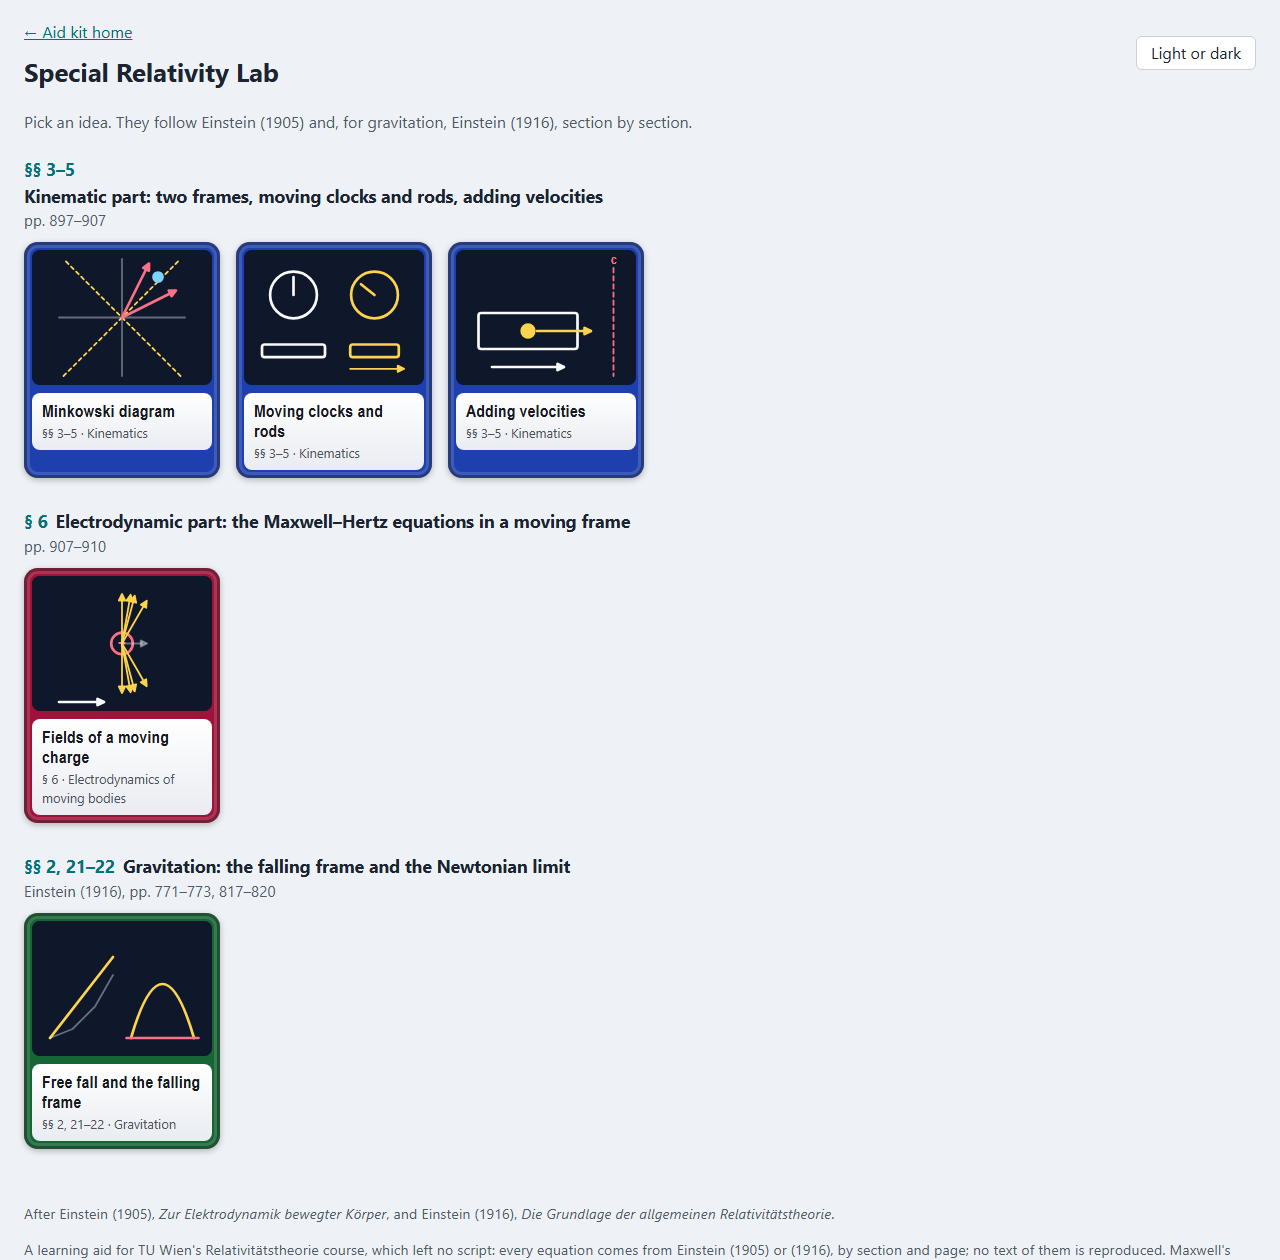
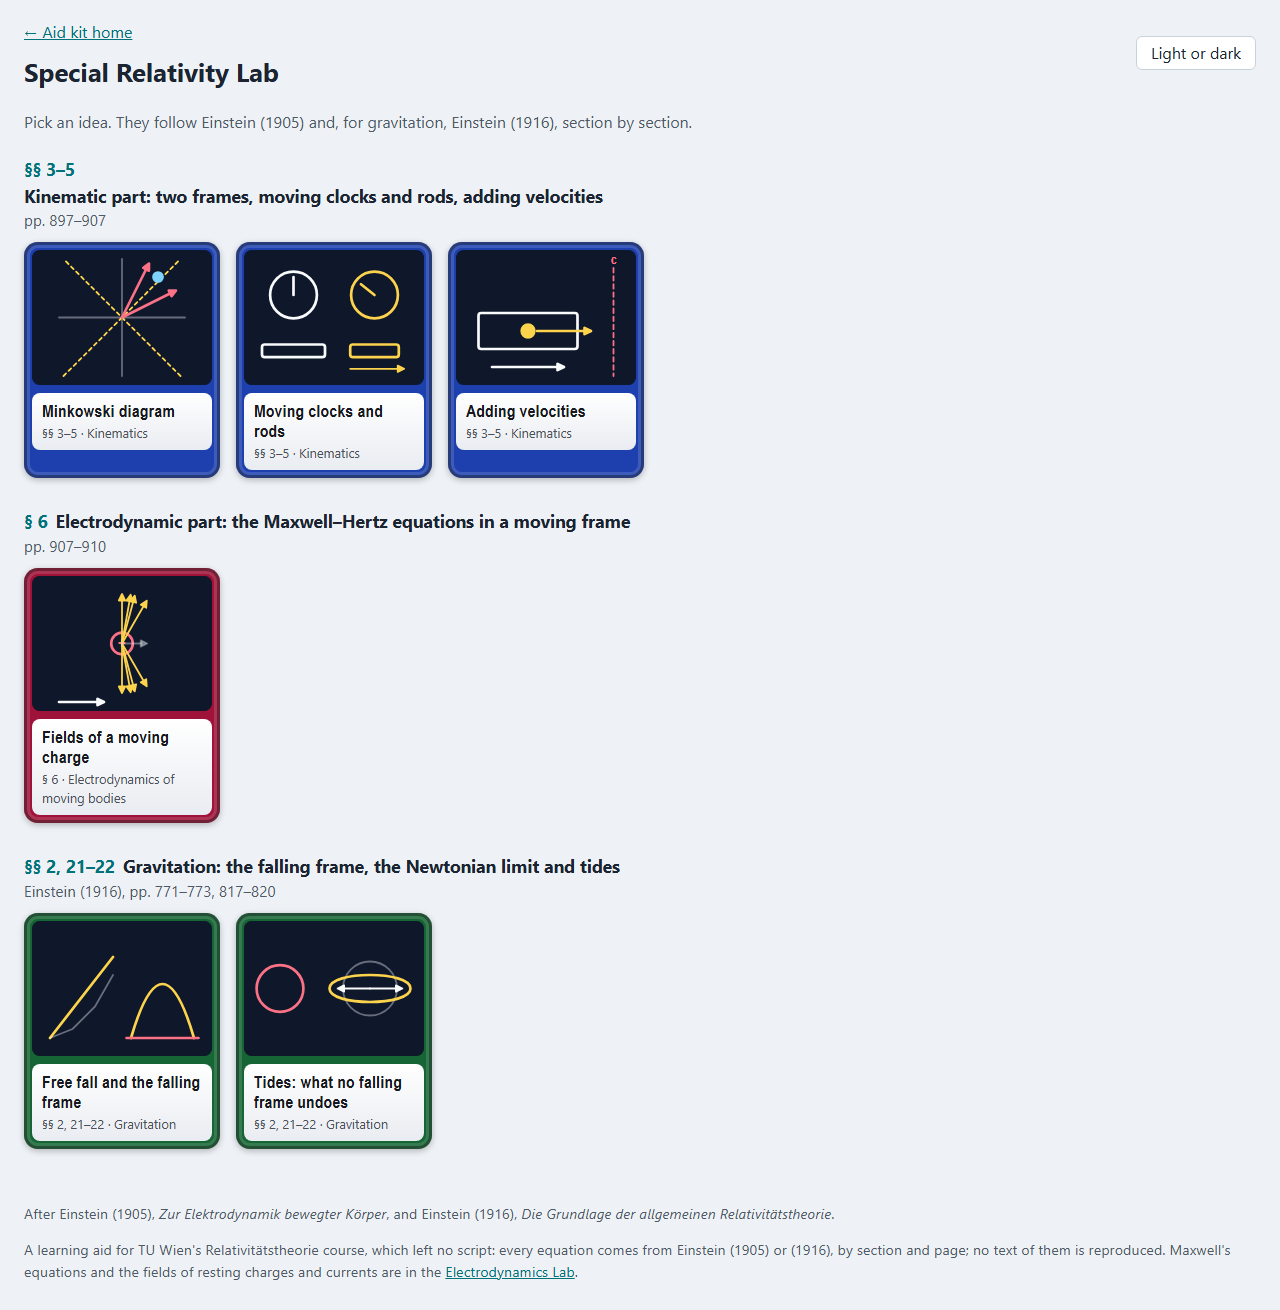
Relativity: add the tides lab after Einstein (1916)
A ring of balls let go around a falling centre stretches along the
radius and squeezes across it: the part of gravity no falling frame
undoes. Potential from eqs. (67)-(69), pp. 817-818, with K as printed
there; (70a) is not used, as by (68) its alpha comes out twice the
printed value. Tested against the first-order tidal form and the
falling ring at small times.

Changed region(s): [[0.0, 0.0, 0.9688, 1.0], [0.9062, 0.031, 0.9688, 0.0619]]

diff --git a/relativity-lab/src/labs/tides.js b/relativity-lab/src/labs/tides.js
@@ -1,0 +1,59 @@
+// Tides, after the Newtonian limit of Einstein (1916) pp. 817–818: a ring of balls let go around a falling centre.
+// Riding with the centre removes the field there, but not its change across the ring: the ring stretches along the
+// radius and squeezes across it. This is what no falling frame undoes, the curvature the free-fall lab leaves out.
+import { fallingRing, tidalLinear } from "../core/index.js";
+import { h, s, slider, readout } from "../../../kit/ui/kit.js";
+import * as a from "../../../kit/ui/art.js";
+
+const W = 460, H = 330, CX = 300, CY = 165, RING = 70, N = 24;
+
+export default {
+  id: "tides",
+  art: () => a.picture("A ring of balls falling towards a planet, stretched into an egg along the line to the planet",
+    a.circle(40, 75, 26, a.HOT, 3) + a.circle(140, 75, 30, a.DIM, 2, "none") +
+      a.path("M95 75 C95 55 185 55 185 75 C185 95 95 95 95 75", a.ACC, 3) + a.arrow(140, 75, 104, 75, a.INK, 2) + a.arrow(140, 75, 176, 75, a.INK, 2)),
+  mount(root) {
+    let M = 6e24, R0 = 7000e3, t = 0, playing = false;
+    const pic = s("svg", { viewBox: `0 0 ${W} ${H}`, class: "schematic", role: "img",
+      "aria-label": "A ring of balls seen from its falling centre: the dashed circle where they started, the ring now, and the planet off to the left" });
+    const rS = readout("Along the radius"), rQ = readout("Across the radius"), rT = readout("Stretching per metre, 2KM/R³");
+    const update = () => {
+      const d = 1000, { reference, offsets } = fallingRing(M, R0, d, N, t);
+      const R = Math.hypot(...reference), sc = RING / d;
+      const along = (offsets[0][0] - offsets[N / 2][0]) / (2 * d), across = (offsets[N / 4][1] - offsets[3 * N / 4][1]) / (2 * d);
+      const ring = offsets.map(([x, y]) => `${(CX + x * sc).toFixed(1)},${(CY - y * sc).toFixed(1)}`);
+      pic.replaceChildren(
+        s("circle", { cx: 50, cy: CY, r: 26, class: "charge" }),
+        s("text", { x: 8, y: CY + 48, class: "tick" }, `planet, ${(R / 1e3).toFixed(0)} km away`),
+        s("line", { x1: 70, y1: CY, x2: W - 10, y2: CY, class: "grid" }),
+        s("circle", { cx: CX, cy: CY, r: RING, fill: "none", class: "light" }),
+        s("path", { d: `M${ring.join(" L")} Z`, fill: "none", class: "axis moving" }),
+        ...offsets.map(([x, y]) => s("circle", { cx: CX + x * sc, cy: CY - y * sc, r: 4, class: "probe" })),
+        s("circle", { cx: CX, cy: CY, r: 3, class: "probe" }),
+        s("text", { x: W - 8, y: 18, class: "tick", "text-anchor": "end" }, `seen from the falling centre, t = ${t.toFixed(0)} s`),
+        s("text", { x: W - 8, y: H - 8, class: "tick", "text-anchor": "end" }, "dashed: the ring when let go"));
+      rS.set(`+${(along * 100 - 100).toFixed(1)} %`, "", "stretched: the near side falls faster");
+      rQ.set(`${(across * 100 - 100).toFixed(1)} %`, "", "squeezed: all fall towards one centre");
+      rT.set(`${(tidalLinear(M, R0, [1, 0])[0] * 1e6).toFixed(3)} µm/s² per m`, "", "at the start; across: half, inward");
+    };
+    const T_MAX = 800;
+    const st = slider({ label: "Time falling t", unit: "s", min: 0, max: T_MAX, value: t, step: 10, format: x => `${x} s`, onInput: x => { t = x; update(); } });
+    const play = h("button", { type: "button" }, "Play");
+    play.addEventListener("click", () => {
+      playing = !playing; play.textContent = playing ? "Pause" : "Play";
+      let last = null;
+      const step = now => {
+        if (!playing || !pic.isConnected) { playing = false; play.textContent = "Play"; return; }
+        if (last !== null) t = (t + (now - last) / 1000 * 160) % T_MAX;
+        last = now; st.set(Math.round(t / 10) * 10); update(); requestAnimationFrame(step);
+      };
+      if (playing) requestAnimationFrame(step);
+    });
+    root.append(h("div", { class: "stage" }, pic, h("div", { class: "controls" }, st, play,
+      slider({ label: "Mass M", unit: "kg", min: 1e24, max: 1e25, value: M, step: 1e23, format: x => `${(x / 1e24).toFixed(1)} × 10²⁴ kg`, onInput: x => { M = x; update(); } }),
+      slider({ label: "Starting distance R0", unit: "km", min: 6500, max: 20000, value: R0 / 1e3, step: 100, format: x => `${x} km`, onInput: x => { R0 = x * 1e3; update(); } }),
+      rS.el, rQ.el, rT.el,
+      h("p", { class: "hint" }, "The centre feels no field: it falls with the ring. Yet the ring turns into an egg pointing at the planet, because the field differs from ball to ball. A uniform field (the free-fall lab) has no such change, so one falling frame undoes it; a real mass cannot be undone everywhere at once. The ring is drawn 1 km across; the change grows as 1/R³."))));
+    update();
+  },
+};

diff --git a/relativity-lab/src/core/gravity.js b/relativity-lab/src/core/gravity.js
@@ -29,3 +29,40 @@ export const g44Acceleration = (x, g, h = 1) => -0.5 * C0 * C0 * (g44Excess(x + 
  *  equation (72), p. 820, dx4 = 1/√g44 per tick ("Die Uhr läuft also langsamer, wenn sie in der Nähe ponderabler
  *  Massen aufgestellt ist"). About g h/c0²; worked without cancellation for heights of metres. */
 export const clockGain = (h, g) => Math.expm1(0.5 * Math.log1p(2 * g * h / (C0 * C0)));
+
+/** Newton's gravitational constant as Einstein quotes it on p. 818: K = 6,7 · 10⁻⁸ in cgs, here in SI (m³/(kg s²)). */
+export const K_GRAV = 6.7e-11;
+
+/** Acceleration at (x, y) m of a point mass M kg at the origin: −grad of the potential −K M/r, which (67), (68a) and
+ *  (69), pp. 817–818, give in the Newtonian limit. Einstein's (70a) is not used: by (68) its α comes out twice his
+ *  printed κM/8π, so the potential is taken from (68a) directly. */
+export function pointMassAcceleration(M, [x, y]) {
+  const r = Math.hypot(x, y), k = -K_GRAV * M / (r * r * r);
+  return [k * x, k * y];
+}
+
+/** Acceleration of a point at offset d = [radial, across] from a falling reference at distance R from the mass,
+ *  relative to that reference: the part no falling frame removes (exact difference). */
+export function tidalAcceleration(M, R, [dx, dy]) {
+  const a = pointMassAcceleration(M, [R + dx, dy]), a0 = pointMassAcceleration(M, [R, 0]);
+  return [a[0] - a0[0], a[1] - a0[1]];
+}
+
+/** Its first-order form for small d: stretch 2KM/R³ along the radius, squeeze KM/R³ across (derived). */
+export const tidalLinear = (M, R, [dx, dy]) => [2 * K_GRAV * M * dx / R ** 3, -K_GRAV * M * dy / R ** 3];
+
+/** A ring of n points of radius d around a reference at distance R0, all let go from rest, after time t: their
+ *  offsets from the reference, which falls with them. Velocity Verlet in steps of t/steps; deterministic. */
+export function fallingRing(M, R0, d, n, t, steps = 400) {
+  const pts = Array.from({ length: n }, (_, i) => { const a = 2 * Math.PI * i / n; return [R0 + d * Math.cos(a), d * Math.sin(a)]; });
+  const bodies = [[R0, 0], ...pts].map(p => ({ p, v: [0, 0], a: pointMassAcceleration(M, p) }));
+  const dt = t / steps;
+  for (let k = 0; k < steps; k++) for (const b of bodies) {
+    b.p = [b.p[0] + b.v[0] * dt + b.a[0] * dt * dt / 2, b.p[1] + b.v[1] * dt + b.a[1] * dt * dt / 2];
+    const a = pointMassAcceleration(M, b.p);
+    b.v = [b.v[0] + (b.a[0] + a[0]) * dt / 2, b.v[1] + (b.a[1] + a[1]) * dt / 2];
+    b.a = a;
+  }
+  const [ref, ...ring] = bodies;
+  return { reference: ref.p, offsets: ring.map(b => [b.p[0] - ref.p[0], b.p[1] - ref.p[1]]) };
+}

diff --git a/relativity-lab/tests/unit/tides.test.js b/relativity-lab/tests/unit/tides.test.js
@@ -1,0 +1,47 @@
+// Tides from the Newtonian limit of Einstein (1916), each against a second route: the exact difference of the field
+// against its first-order form, the falling ring against that form at small times, and hand-checked numbers.
+import { test } from "node:test";
+import assert from "node:assert/strict";
+import * as F from "../../src/core/index.js";
+
+const near = (a, b, rel = 1e-9, abs = 0) => assert.ok(Math.abs(a - b) <= rel * Math.abs(b) + abs, `${a} is not ${b}`);
+const M = 6e24, R = 7e6;
+
+test("K = 6.7 × 10⁻⁸ cgs on p. 818 is 6.7 × 10⁻¹¹ in SI (by definition: cm³/(g s²) = 10⁻³ m³/(kg s²))", () => {
+  near(F.K_GRAV, 6.7e-8 * 1e-6 / 1e-3);
+});
+
+test("a point mass pulls towards itself with K M/r² (by definition of −grad of −K M/r)", () => {
+  const [ax, ay] = F.pointMassAcceleration(M, [R, 0]);
+  near(ax, -F.K_GRAV * M / R ** 2);
+  assert.equal(ay, -0);
+});
+
+test("10 m along the radius at 7000 km from 6 × 10²⁴ kg: 2.344 × 10⁻⁵ m/s² (hand-checked)", () => {
+  near(F.tidalAcceleration(M, R, [10, 0])[0], 2.344e-5, 1e-3);
+  near(F.tidalAcceleration(M, R, [0, 10])[1], -1.172e-5, 1e-3);
+});
+
+// abs 1e-12: the difference of two ~8 m/s² accelerations leaves ~1e-13 of rounding where the true value is 0.
+test("the exact difference matches the first-order form 2KM d/R³ and −KM d/R³ for small d (second route)", () => {
+  for (const d of [[1, 0], [0, 1], [3, 4]]) {
+    const ex = F.tidalAcceleration(M, R, d), lin = F.tidalLinear(M, R, d);
+    near(ex[0], lin[0], 1e-5, 1e-12);
+    near(ex[1], lin[1], 1e-5, 1e-12);
+  }
+});
+
+test("the falling ring stretches along the radius and squeezes across it, early on as ½ Δa t² (second route)", () => {
+  const d = 1000, t = 60, n = 8, { offsets } = F.fallingRing(M, R, d, n, t, 600);
+  const k = F.K_GRAV * M / R ** 3;
+  near(offsets[0][0] - d, 0.5 * 2 * k * d * t * t, 0.02);
+  near(offsets[2][1] - d, -0.5 * k * d * t * t, 0.02);
+  const late = F.fallingRing(M, R, d, n, 600).offsets;
+  assert.ok(late[0][0] > d && late[2][1] < d, "stretched along, squeezed across");
+});
+
+test("the ring is let go as a circle and the same input gives the same ring (deterministic)", () => {
+  const a = F.fallingRing(M, R, 1000, 12, 0), b = F.fallingRing(M, R, 1000, 12, 300), c = F.fallingRing(M, R, 1000, 12, 300);
+  for (const [x, y] of a.offsets) near(Math.hypot(x, y), 1000, 1e-9);
+  assert.deepEqual(b, c);
+});

diff --git a/relativity-lab/src/core/index.js b/relativity-lab/src/core/index.js
@@ -1,5 +1,5 @@
 // The core's front door: the laws, the units and the practice checker. Pure: no page, no clock, no randomness.
 export { C0, MU0, EPS0, lorentzFactor, boost, interval, clockTime, rodLength, addVelocities, boostFields, movingCharge } from "./relativity.js";
-export { groundHeight, thrownHeight, apexHeight, flightTime, g44, g44Acceleration, clockGain } from "./gravity.js";
+export { groundHeight, thrownHeight, apexHeight, flightTime, g44, g44Acceleration, clockGain, K_GRAV, pointMassAcceleration, tidalAcceleration, tidalLinear, fallingRing } from "./gravity.js";
 export { si, parseSi, isRight } from "../../../kit/core/index.js";
 export { solve } from "./practice.js";

diff --git a/relativity-lab/src/core/practice.js b/relativity-lab/src/core/practice.js
@@ -13,6 +13,10 @@ const LAWS = {
   apexHeight: q => G.apexHeight(q.v, q.g),
   // Seconds a clock h metres up gains over one on the ground while t seconds pass.
   clockGainTime: q => G.clockGain(q.h, q.g) * q.t,
+  // Relative acceleration (m/s²) of two balls d metres apart along the radius, R metres from a mass M kg.
+  tidalStretch: q => G.tidalAcceleration(q.M, q.R, [q.d, 0])[0],
+  // The same, d metres apart across the radius: towards each other, so the magnitude.
+  tidalSqueeze: q => -G.tidalAcceleration(q.M, q.R, [0, q.d])[1],
 };
 
 /** The answer to a question's "compute" block; an unknown law is an error naming the ones there are. */

diff --git a/relativity-lab/src/labs/index.js b/relativity-lab/src/labs/index.js
@@ -5,5 +5,6 @@ import dilation from "./dilation.js";
 import velocity from "./velocity.js";
 import movingcharge from "./movingcharge.js";
 import freefall from "./freefall.js";
+import tides from "./tides.js";
 
-export const labs = [minkowski, dilation, velocity, movingcharge, freefall];
+export const labs = [minkowski, dilation, velocity, movingcharge, freefall, tides];

diff --git a/relativity-lab/README.md b/relativity-lab/README.md
@@ -1,7 +1,7 @@
 # Special Relativity Lab
 
-Five ideas of relativity to play with in the browser: frames, clocks, rods and fields seen from two frames at once,
-after Einstein (1905), *Zur Elektrodynamik bewegter Körper*, and free fall seen from a falling frame, after Einstein
+Six ideas of relativity to play with in the browser: frames, clocks, rods and fields seen from two frames at once,
+after Einstein (1905), *Zur Elektrodynamik bewegter Körper*, and free fall and tides seen from a falling frame, after Einstein
 (1916), *Die Grundlage der allgemeinen Relativitätstheorie*, for TU Wien's Relativitätstheorie course.
 
 <picture>
@@ -15,13 +15,13 @@ after Einstein (1905), *Zur Elektrodynamik bewegter Körper*, and free fall seen
 |---|---|
 | Einstein (1905) §§ 3–5 Kinematic part | Minkowski diagram (simultaneity and the interval), moving clocks and rods, adding velocities |
 | Einstein (1905) § 6 Electrodynamic part | the fields of a moving charge: E and B mixing under a boost |
-| Einstein (1916) §§ 2, 21–22 Gravitation | free fall: a thrown ball goes straight in the falling frame and bends into an arch on the ground; only g44, the rate of clocks, enters |
+| Einstein (1916) §§ 2, 21–22 Gravitation | free fall: a thrown ball goes straight in the falling frame and bends into an arch on the ground; only g44, the rate of clocks, enters; tides: a falling ring of balls stretches towards the mass, what no falling frame undoes |
 
 Each lab has a drawing to move, readouts worked by the core, a table of the equations behind it with their page in
 Einstein (1905) or (1916), and a practice question worked by hand. Maxwell's equations and the fields of resting charges are in
 the [Electrodynamics Lab](../Electromagnetism/).
 
-<img src="docs/light.png" alt="The overview in the light theme: Einstein's kinematic part with three lab cards, the electrodynamic part with one and gravitation with the free-fall lab" width="640">
+<img src="docs/light.png" alt="The overview in the light theme: Einstein's kinematic part with three lab cards, the electrodynamic part with one and gravitation with the free-fall and tides labs" width="640">
 <img src="docs/dark.png" alt="The moving charge lab in the dark theme: arrows of the electric field squeezed across the path, colour for the magnetic field above and below, and the readouts showing the factor γ" width="640">
 
 ## Open it
@@ -50,8 +50,8 @@ Plain JavaScript modules, no build step. Layers and their tests: [ARCHITECTURE.m
 ## Limits
 
 - A learning aid in one dimension of motion: every boost is along x.
-- Gravitation only in the Newtonian limit of a uniform field (Einstein 1916, § 21): no tides, no orbits, no field
-  equations.
+- Gravitation only in the Newtonian limit (Einstein 1916, § 21): a uniform field and the tides of a point mass, in a
+  plane; no orbits, no light bending, no field equations beyond their Newtonian form.
 - The course left no script and no exercises: every equation is from Einstein (1905) or (1916), checked against the
   scanned originals, and the practice answers are worked by hand.
 - Einstein's field equations use Gaussian units; the SI form shown beside them is derived and marked so.

diff --git a/relativity-lab/AUDIT.md b/relativity-lab/AUDIT.md
@@ -20,6 +20,7 @@ Before, the equations mixed Einstein's V with the modern γ.
 | Adding velocities | p. 905: x(t), y(t) of a point in k, "parallelogram … only to a first approximation"; p. 906: U for angle α, U along x, U < V, U = V for light | **Readout**: the note "light stays at c0 in every frame" appeared whenever \|U\| ≥ 0.9999 c0, so 0.99 c0 ⊕ 0.99 c0 = 0.99995 c0 (no light involved) was labelled light. Now the note follows the body's speed: only \|w\| = c0. Test: `lightNote`, and checked in the page. | — |
 | Fields of a moving charge | p. 909: X' … N' with factor v/V; p. 910: the sentence on the forces' dependence on the frame; Prechtl (2010) (2.43), p. 38, and (3.13), p. 61 | (1) **Source misnamed**: the core and labs.json called Prechtl's (3.13) Coulomb's field. It is the point-charge potential; the field is its negative gradient. Wording corrected; a test checks the core's field against −grad of (3.13). (2) **Practice solution**: said γvB and Prechtl's v × B agree "to 6 digits". They differ by 5.6 parts per million, so 1.00001 against 1.00000 × 10⁶ V/m at 6 digits. Now "to 5 digits". (3) The SI rows said "with B = N/c". The precise mapping is Gaussian B ↔ c0 B (SI), with a unit factor common to E and B that cancels; note reworded. | Einstein does not name his unit system. "Gaussian" is read from p. 909 (a unit charge exerts 1 dyn at 1 cm) and the 1/V in the field equations of p. 907. The moving-charge field is derived, not printed in either source; it is tested against Gauss's law. That test cites Prechtl (2010) Tab. 2.1, row 4, which this audit did not reread. |
 | Free fall and the falling frame (added 8 Nov 2026) | Einstein (1916), scan from Zenodo record 1424302: pp. 772–773, the frame K' accelerated against K, equivalent to a field; p. 817, eq. (67), d²x/dt² = −½ ∂g44/∂x, "nur die Komponente g44 … bestimmt"; p. 820, eq. (72), the clock slower near masses | New lab, nothing to correct. Tests in `tests/unit/gravity.test.js`; the first run failed because g44 − 1 vanished in rounding next to the 1, now kept apart in the core. | The shift x = x_fall − g t²/2 and g44 = 1 + 2gx/c0² for a uniform field are derived, not printed. Einstein's geodesic equation (46) and §§ 4–20 were not read. |
+| Tides (added 10 Nov 2026) | Einstein (1916) p. 817, eq. (67); p. 818, eqs. (68), (68a), (69) with K = 6,7 · 10⁻⁸ (cgs), read on the scan | New lab, nothing to correct. The first test run failed on a tolerance of 10⁻²⁰ where rounding leaves 10⁻¹³; set to 10⁻¹². **Not used**: (70a), p. 819, prints α = κM/8π, but solving (68) for a point mass gives α = κM/4π by my derivation; the potential is taken from (68a) instead. | The factor in (70a) is my own reading, not checked against the Collected Papers' editorial notes. The tidal forms 2KM d/R³ and −KM d/R³ are derived, not printed. |
 
 ## Limits
 

diff --git a/relativity-lab/ARCHITECTURE.md b/relativity-lab/ARCHITECTURE.md
@@ -19,8 +19,8 @@ lab's own `style.css` is linked after `../kit/style.css` and adds only its famil
 | app | `src/app.js` | kit-core, core, kit, labs | the page, `index.html` |
 
 The core is pure: no DOM, network, clock or randomness (`forbid` in `architecture.json`). `relativity.js` holds the
-Lorentz transformation, its consequences and the transformation of E and B, in SI; `gravity.js` the free fall of
-Einstein (1916) in the Newtonian limit of a uniform field. The kit draws and knows no law. A
+Lorentz transformation, its consequences and the transformation of E and B, in SI; `gravity.js` the free fall and the
+tides of Einstein (1916) in the Newtonian limit. The kit draws and knows no law. A
 lab holds one idea. The core names no lab.
 
 ## Data
@@ -38,7 +38,8 @@ lab holds one idea. The core names no lab.
   boosts against velocity addition, the Galilean limit, Prechtl (2010) (2.43) at low speed, Gauss's law by a numerical
   integral.
 - Free fall: `tests/unit/gravity.test.js`, the falling frame's line against the parabola, eq. (67) integrated in time
-  against it, eq. (72) against g h/c0².
+  against it, eq. (72) against g h/c0². Tides: `tests/unit/tides.test.js`, the exact field difference against its
+  first-order form, the falling ring against ½ Δa t².
 - Practice answers: `tests/unit/labs-data.test.js`. Modules and data agree: `tests/unit/labs-modules.test.js`.
 - Citations: `tests/unit/design-citations.test.js`. README pictures: `tests/unit/readme.test.js`.
 

diff --git a/relativity-lab/CLAUDE.md b/relativity-lab/CLAUDE.md
@@ -5,7 +5,7 @@ Interactive labs for TU Wien's Relativitätstheorie (summer 2017), one per idea.
 cited. Layers and rules: ARCHITECTURE.md. Tests: `node --test "tests/unit/*.test.js"`.
 Source of every equation: Einstein (1905), `H:\My Drive\02_Personal\02_Education\TU\01_TU_Bachelor\Relativitätstheorie\Einstein1905\1905_17_891-921.pdf`
 (a scan with no text layer: read the page images; printed page = PDF page + 890). Einstein writes V for c and β for γ.
-The free-fall lab: Einstein (1916), `H:\My Drive\02_Personal\02_Education\TU\01_TU_Bachelor\Relativitätstheorie\Einstein1916\1916_49_769-822.pdf` (Zenodo record
+The free-fall and tides labs: Einstein (1916), `H:\My Drive\02_Personal\02_Education\TU\01_TU_Bachelor\Relativitätstheorie\Einstein1916\1916_49_769-822.pdf` (Zenodo record
 1424302; printed page = PDF page + 768); Einstein measures time with c = 1.
 Cross-checks from Prechtl (2010), the Electrodynamics notes (see `../Electromagnetism/CLAUDE.md`): (2.43), (3.13).
 There are no exercises: practice answers are worked by hand and say so. Maxwell's equations stay in the
